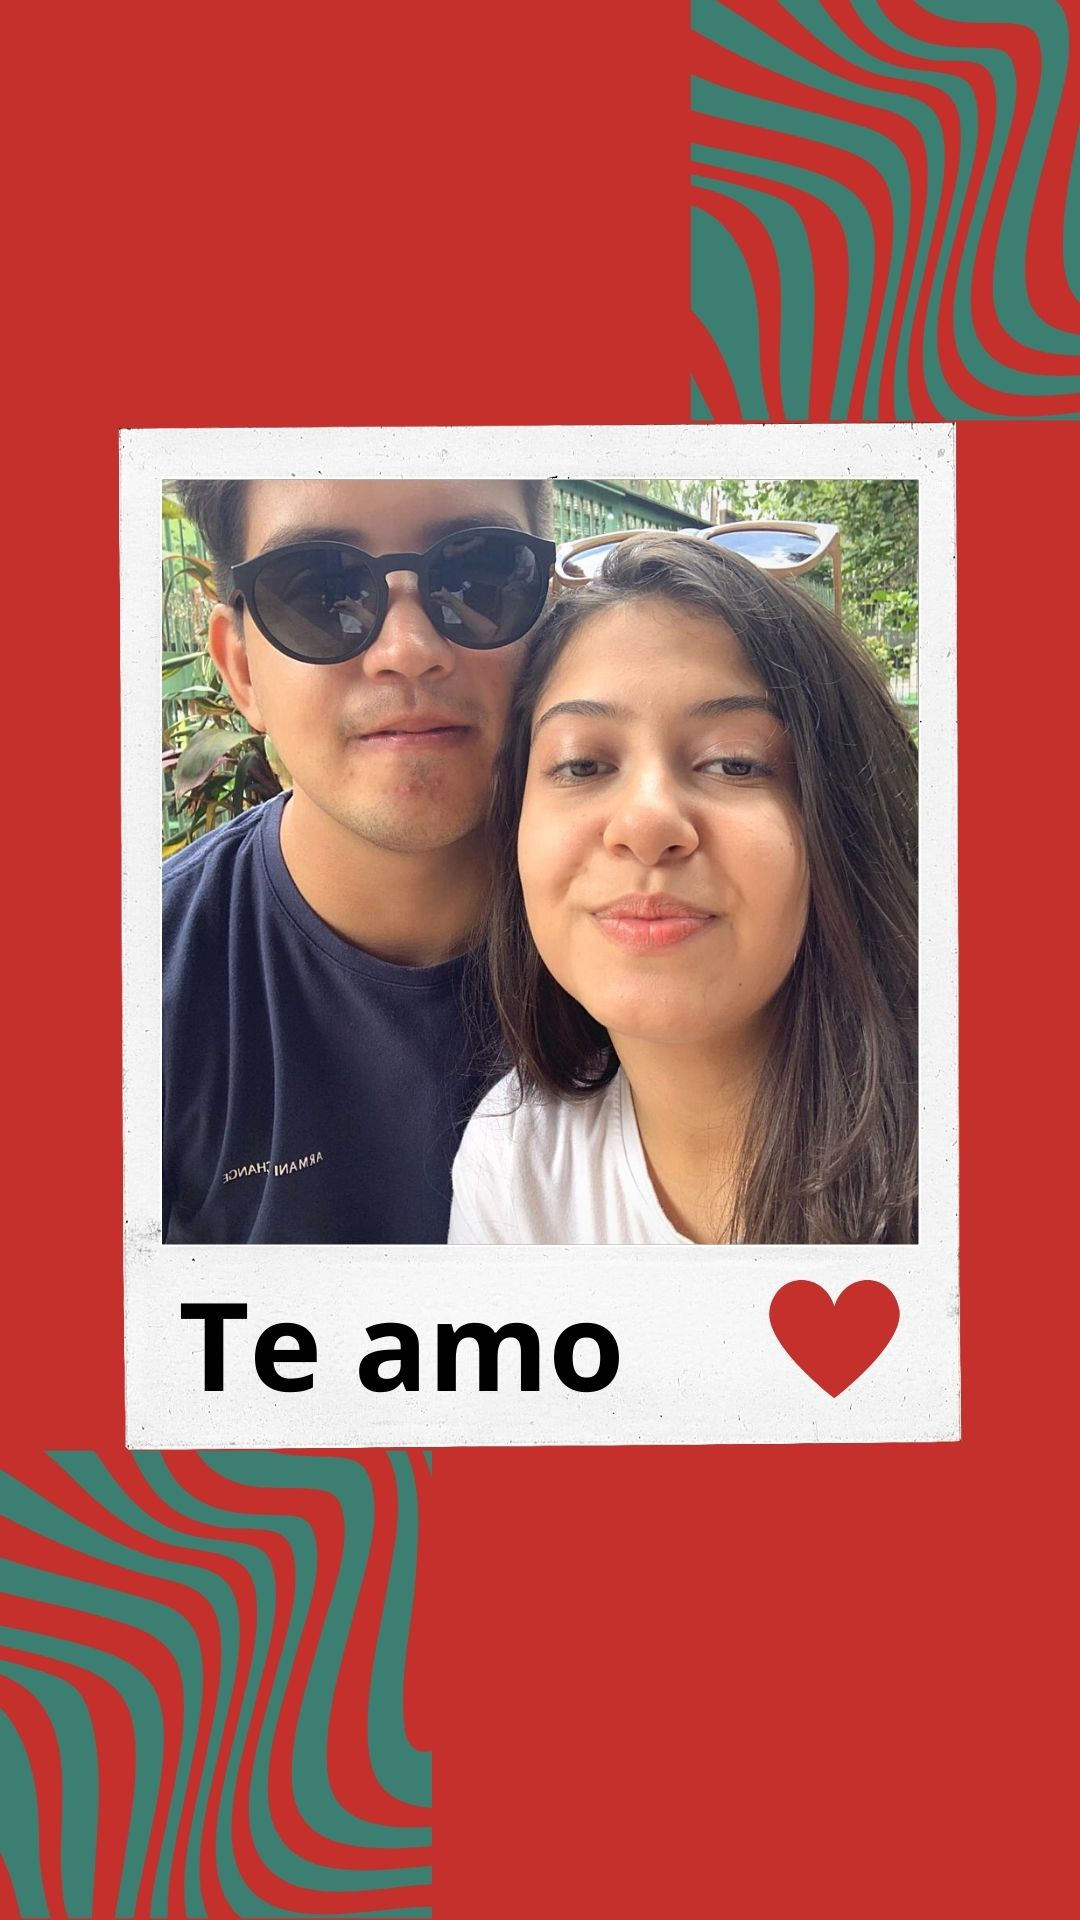
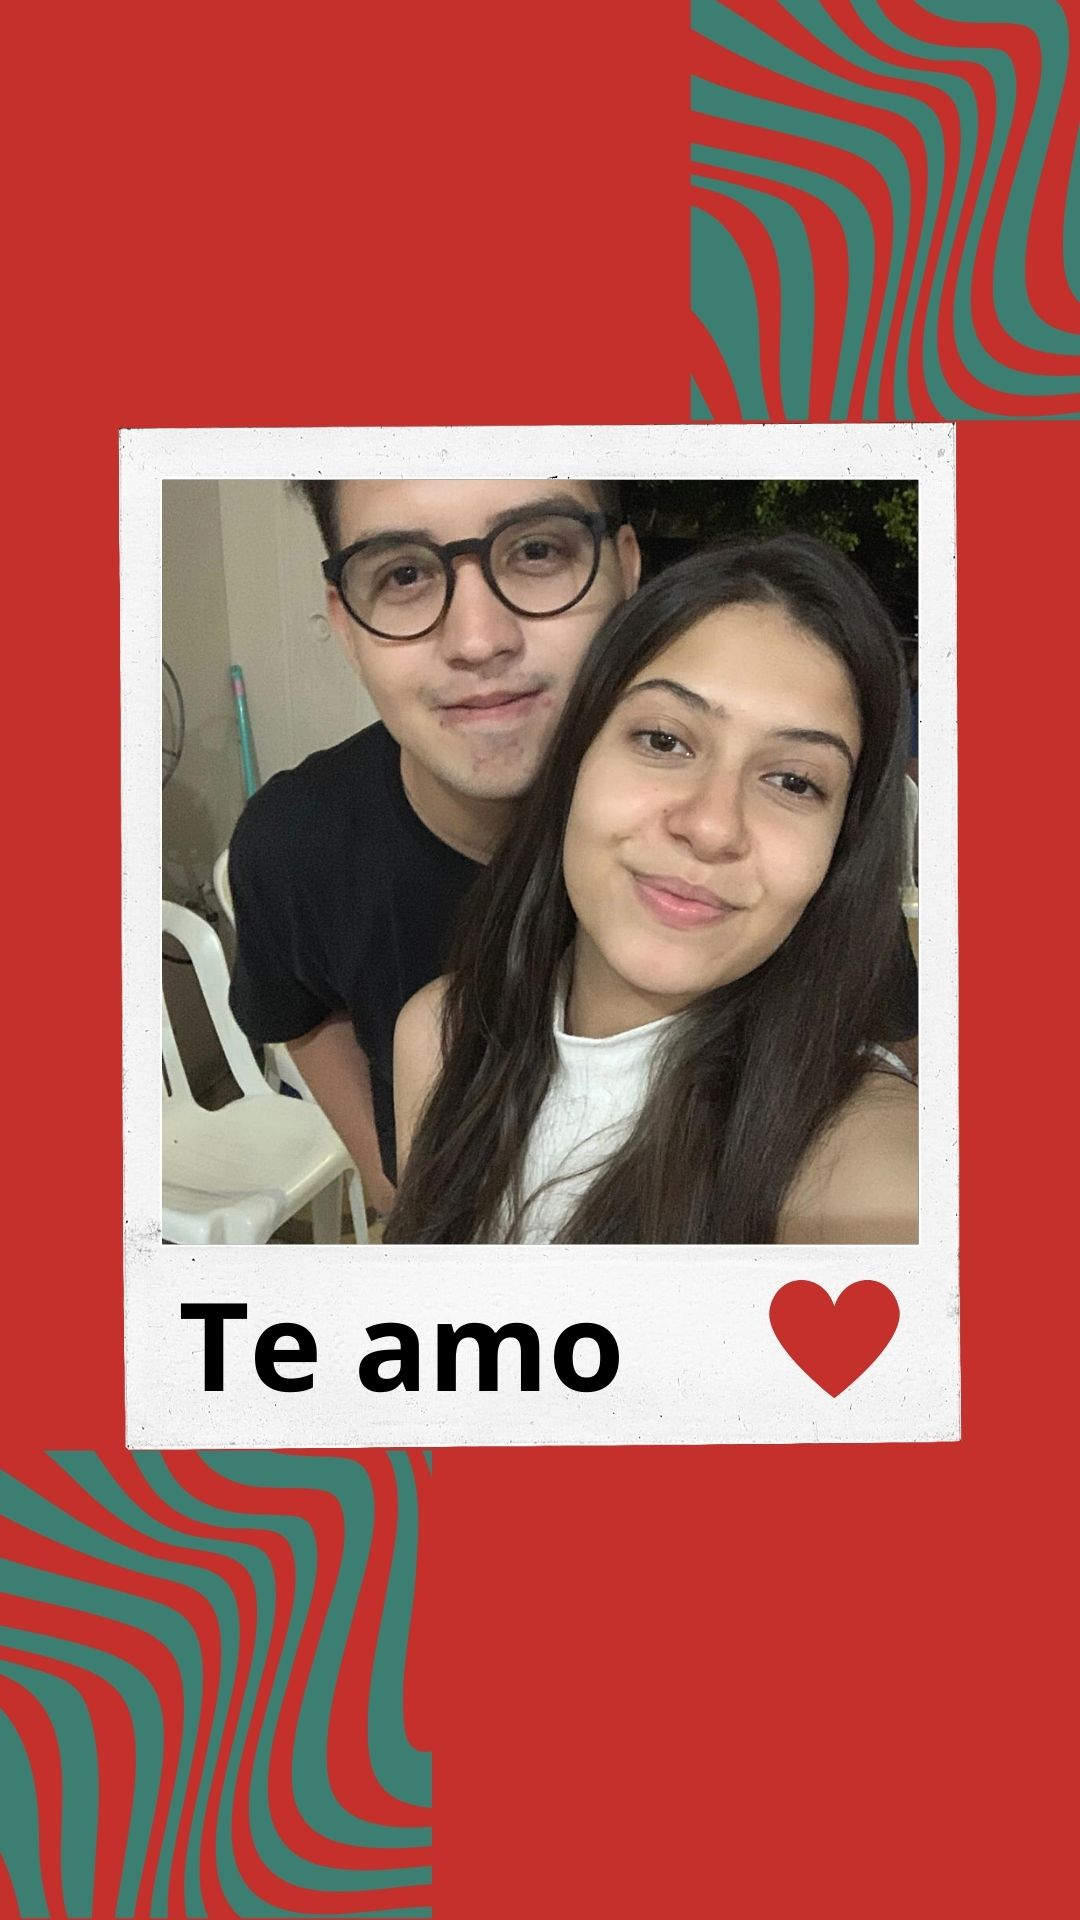
feat: improve photos

Changed region(s): [[0.1528, 0.25, 0.8556, 0.6562]]

diff --git a/retrospectiva.html b/retrospectiva.html
@@ -62,7 +62,10 @@
           <img src="./public/img/momentos-2.jpg" />
         </li>
         <li>
-          <div class="slide__step slide__step-7">Feliz aniversário, Júlia!</div>
+          <img src="./public/img/feliz.jpg" />
+        </li>
+        <li>
+          <img src="./public/img/especial.jpg" />
         </li>
         <li>
           <img src="./public/img/te-amo.jpg" />

diff --git a/index.html b/index.html
@@ -18,6 +18,11 @@
   <body>
     <div class="home">
       <a href="./retrospectiva.html">RESTROSPECTIVA!</a>
+      <a
+        href="https://open.spotify.com/playlist/58tFm5vFhDDnVR33BYPSIM?si=a253d6c37fc7458e"
+        target="_blank"
+        >IR PARA PLAYLIST NO SPOTIFY!</a
+      >
     </div>
   </body>
 </html>

diff --git a/public/css/components/home.css b/public/css/components/home.css
@@ -19,3 +19,13 @@
   border-radius: 50px;
   transition: all 0.3s;
 }
+
+.home a:last-child {
+  background-color: transparent;
+  border: 4px solid #1db954;
+}
+
+.home a:hover {
+  background-color: #1ed760;
+  filter: brightness(1.01);
+}
